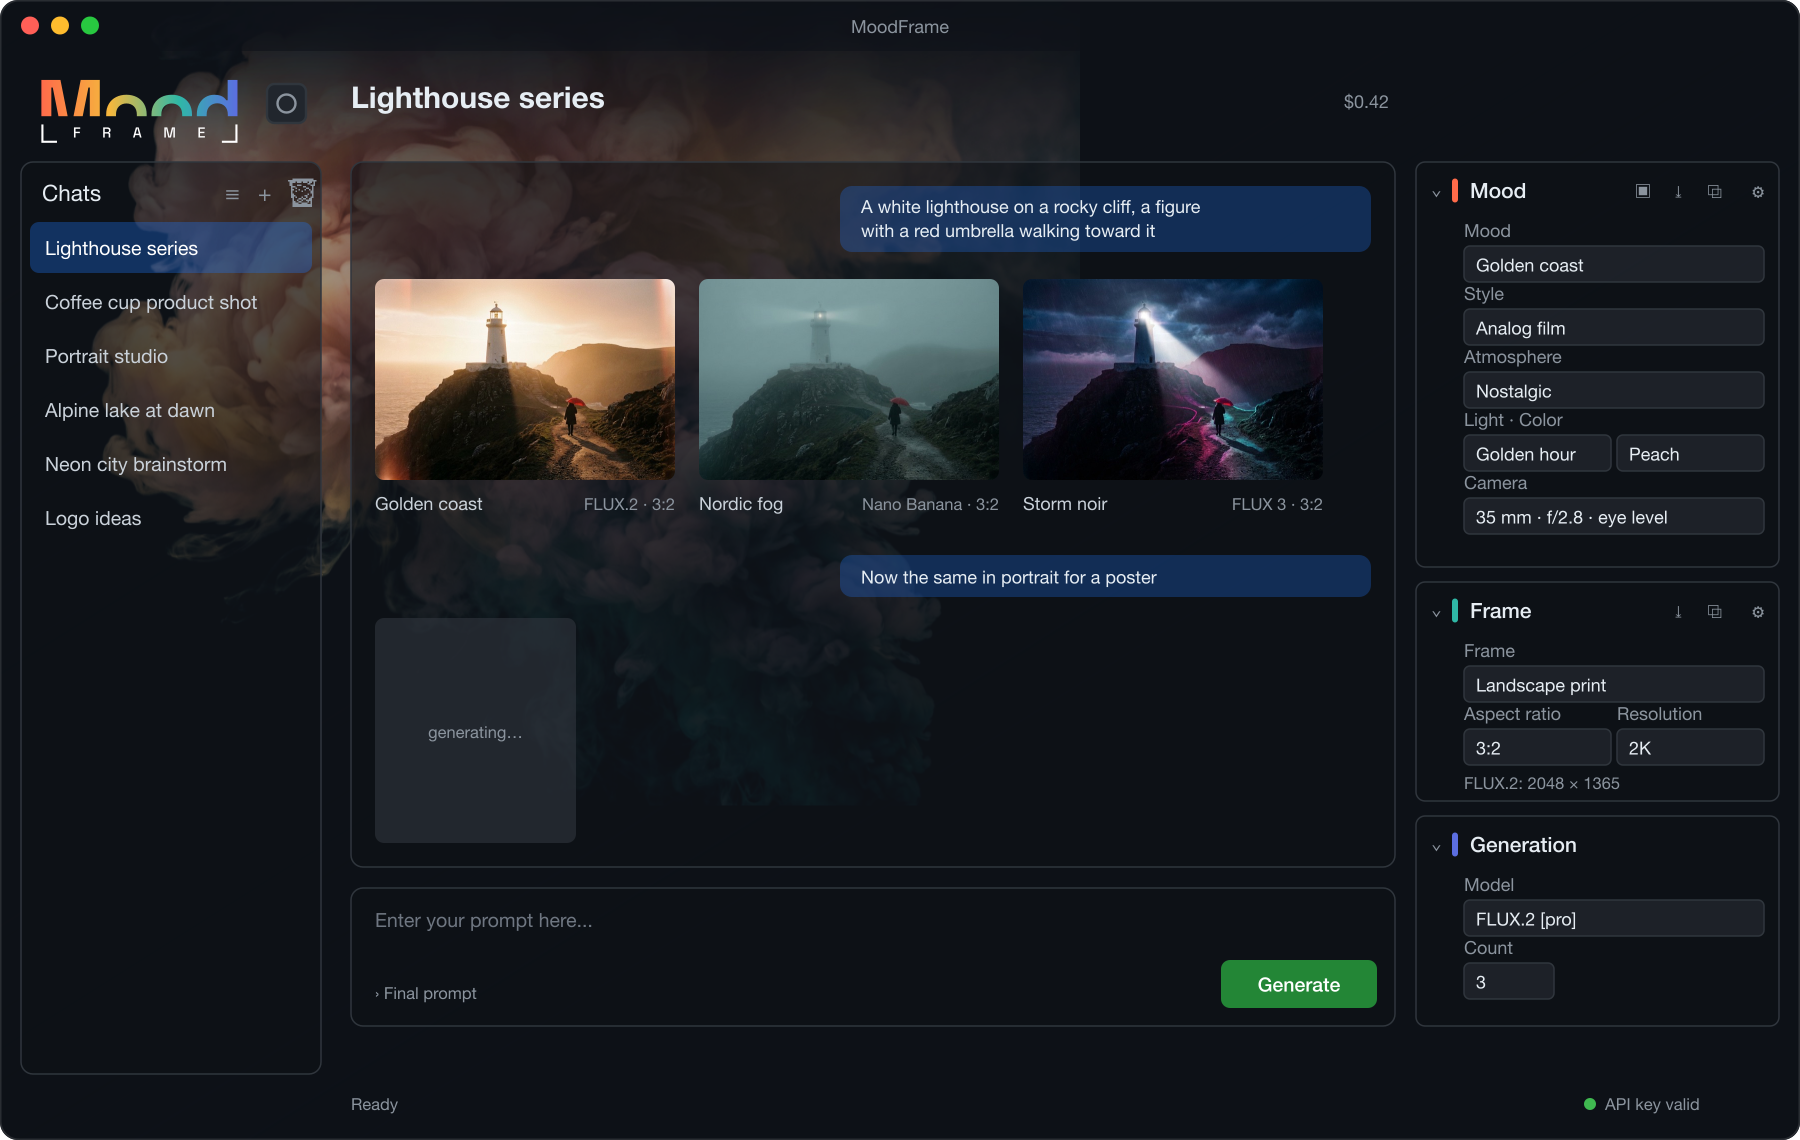
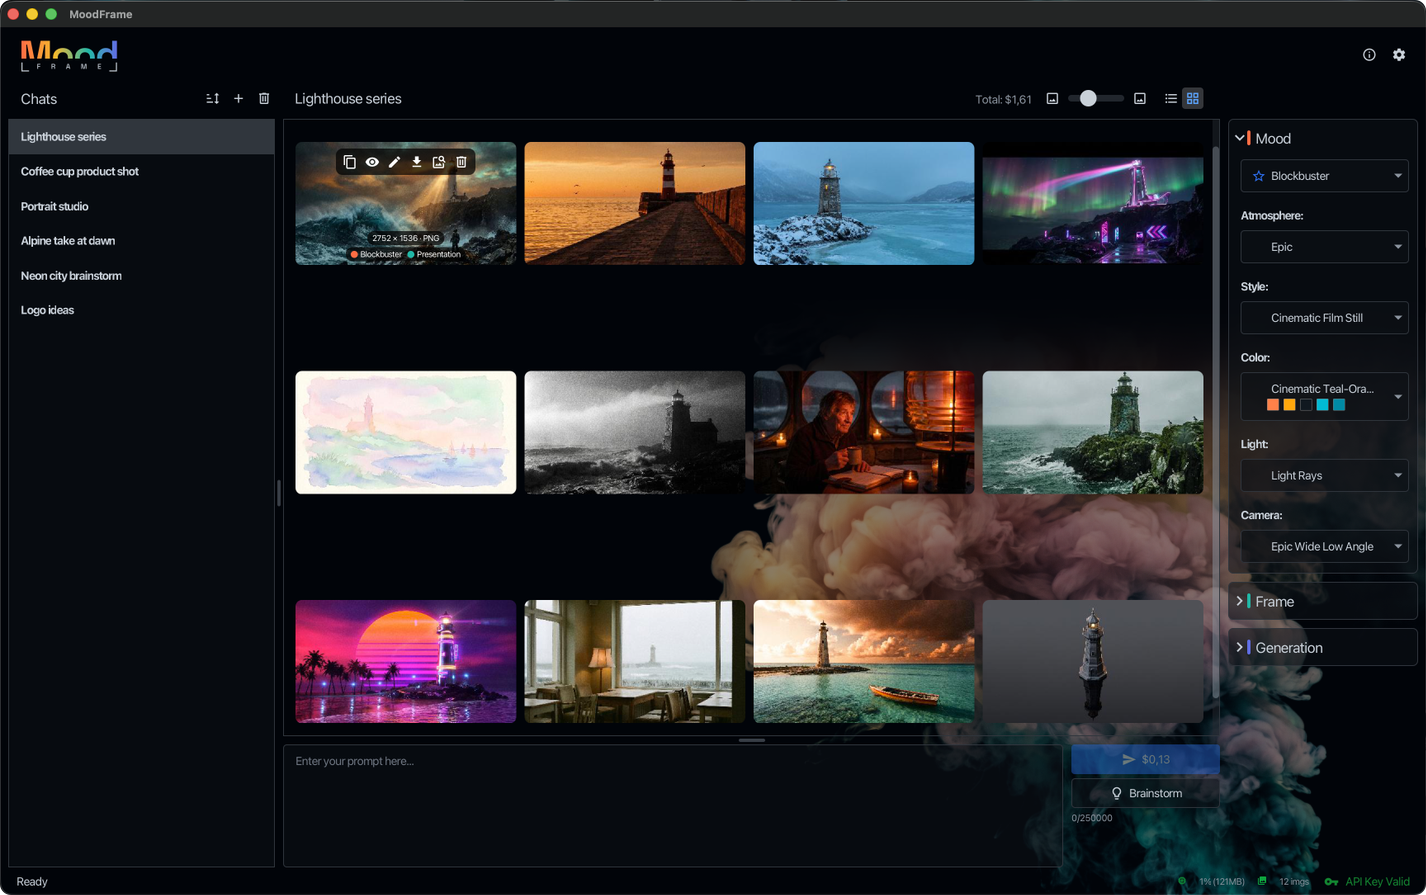
feat(website): Real app screenshot in the overview, callout for Brainstorm

diff --git a/website/index.html b/website/index.html
@@ -12,7 +12,7 @@
     <link rel="icon" type="image/png" href="assets/img/favicon-64.png">
     <link rel="apple-touch-icon" href="assets/img/apple-touch-icon.png">
     <link rel="preload" href="assets/fonts/space-grotesk-700.woff2" as="font" type="font/woff2" crossorigin>
-    <link rel="stylesheet" href="assets/css/site.css?v=20261113e">
+    <link rel="stylesheet" href="assets/css/site.css?v=20261114">
 </head>
 <body>
 
@@ -58,50 +58,56 @@
         <figure class="card overview-figure" style="margin-inline: 0">
             <svg viewBox="0 0 1248 600" role="img" aria-labelledby="overview-desc">
                 <desc id="overview-desc" data-i18n="overview.alt">The MoodFrame main window with the library, the images, the prompt, and the groups Mood, Frame and Generation</desc>
-                <image href="assets/img/app-screenshot.png" x="194" y="30" width="860" height="545"/>
-                <g stroke-width="1">
-                    <line x1="182" y1="132" x2="273" y2="132" stroke="rgb(255 255 255 / 45%)"/>
-                    <line x1="182" y1="211" x2="431" y2="211" stroke="rgb(255 255 255 / 45%)"/>
-                    <line x1="182" y1="454" x2="409" y2="454" stroke="rgb(255 255 255 / 45%)"/>
-                    <line x1="954" y1="182" x2="1066" y2="182" stroke="#ff6b4a"/>
-                    <line x1="954" y1="347" x2="1066" y2="347" stroke="#2fb8a6"/>
-                    <line x1="954" y1="447" x2="1066" y2="447" stroke="#5b6ee1"/>
+                <image href="assets/img/app-screenshot.png?v=20261114" x="194" y="30" width="860" height="540"/>
+                <g stroke-width="1" fill="none">
+                    <line x1="182" y1="112" x2="199" y2="112" stroke="rgb(255 255 255 / 45%)"/>
+                    <line x1="182" y1="184" x2="372" y2="184" stroke="rgb(255 255 255 / 45%)"/>
+                    <line x1="182" y1="506" x2="496" y2="506" stroke="rgb(255 255 255 / 45%)"/>
+                    <line x1="1010" y1="113" x2="1066" y2="113" stroke="#ff6b4a"/>
+                    <polyline points="1010,392 1040,392 1058,372 1066,372" stroke="#2fb8a6"/>
+                    <polyline points="1010,420 1040,420 1058,445 1066,445" stroke="#5b6ee1"/>
+                    <polyline points="926,508 1040,508 1058,530 1066,530" stroke="#f5b83d"/>
                 </g>
                 <g stroke="#0d1a1e" stroke-width="2">
-                    <circle cx="273" cy="132" r="5" fill="#ffffff"/><circle cx="431" cy="211" r="5" fill="#ffffff"/>
-                    <circle cx="409" cy="454" r="5" fill="#ffffff"/><circle cx="954" cy="182" r="5" fill="#ff6b4a"/>
-                    <circle cx="954" cy="347" r="5" fill="#2fb8a6"/><circle cx="954" cy="447" r="5" fill="#5b6ee1"/>
+                    <circle cx="199" cy="112" r="5" fill="#ffffff"/><circle cx="372" cy="184" r="5" fill="#ffffff"/>
+                    <circle cx="496" cy="506" r="5" fill="#ffffff"/><circle cx="1010" cy="113" r="5" fill="#ff6b4a"/>
+                    <circle cx="1010" cy="392" r="5" fill="#2fb8a6"/><circle cx="1010" cy="420" r="5" fill="#5b6ee1"/>
+                    <circle cx="926" cy="508" r="5" fill="#f5b83d"/>
                 </g>
                 <g text-anchor="end">
-                    <text x="174" y="137" class="callout-title" data-i18n="feature.library">Library</text>
-                    <text x="174" y="157" class="callout-text" data-i18n="feature.library.1">Chats, or all images</text>
-                    <text x="174" y="175" class="callout-text" data-i18n="feature.library.2">of a mood or frame</text>
-                    <text x="174" y="216" class="callout-title" data-i18n="feature.images">Images</text>
-                    <text x="174" y="236" class="callout-text" data-i18n="feature.images.1">each with its mood,</text>
-                    <text x="174" y="254" class="callout-text" data-i18n="feature.images.2">model and cost</text>
-                    <text x="174" y="459" class="callout-title" data-i18n="feature.prompt">Prompt</text>
-                    <text x="174" y="479" class="callout-text" data-i18n="feature.prompt.1">write what you see, or</text>
-                    <text x="174" y="497" class="callout-text" data-i18n="feature.prompt.2">brainstorm it with AI</text>
+                    <text x="174" y="117" class="callout-title" data-i18n="feature.library">Library</text>
+                    <text x="174" y="137" class="callout-text" data-i18n="feature.library.1">Chats, or all images</text>
+                    <text x="174" y="155" class="callout-text" data-i18n="feature.library.2">of a mood or frame</text>
+                    <text x="174" y="189" class="callout-title" data-i18n="feature.images">Images</text>
+                    <text x="174" y="209" class="callout-text" data-i18n="feature.images.1">each with its mood,</text>
+                    <text x="174" y="227" class="callout-text" data-i18n="feature.images.2">model and cost</text>
+                    <text x="174" y="511" class="callout-title" data-i18n="feature.prompt">Prompt</text>
+                    <text x="174" y="531" class="callout-text" data-i18n="feature.prompt.1">write what you want</text>
+                    <text x="174" y="549" class="callout-text" data-i18n="feature.prompt.2">to see in the picture</text>
                 </g>
                 <g>
-                    <text x="1074" y="187" class="callout-title" data-i18n="nav.mood">Mood</text>
-                    <text x="1074" y="207" class="callout-text" data-i18n="feature.mood.1">style, atmosphere, light,</text>
-                    <text x="1074" y="225" class="callout-text" data-i18n="feature.mood.2">color and camera</text>
-                    <text x="1074" y="352" class="callout-title" data-i18n="nav.frame">Frame</text>
-                    <text x="1074" y="372" class="callout-text" data-i18n="feature.frame.1">aspect ratio and size</text>
-                    <text x="1074" y="452" class="callout-title" data-i18n="nav.models">Models</text>
-                    <text x="1074" y="472" class="callout-text" data-i18n="feature.models.1">FLUX, Nano Banana,</text>
-                    <text x="1074" y="490" class="callout-text" data-i18n="feature.models.2">OpenAI-compatible</text>
+                    <text x="1074" y="118" class="callout-title" data-i18n="nav.mood">Mood</text>
+                    <text x="1074" y="138" class="callout-text" data-i18n="feature.mood.1">style, atmosphere, light,</text>
+                    <text x="1074" y="156" class="callout-text" data-i18n="feature.mood.2">color and camera</text>
+                    <text x="1074" y="377" class="callout-title" data-i18n="nav.frame">Frame</text>
+                    <text x="1074" y="397" class="callout-text" data-i18n="feature.frame.1">aspect ratio and size</text>
+                    <text x="1074" y="450" class="callout-title" data-i18n="nav.models">Models</text>
+                    <text x="1074" y="470" class="callout-text" data-i18n="feature.models.1">FLUX, Nano Banana,</text>
+                    <text x="1074" y="488" class="callout-text" data-i18n="feature.models.2">OpenAI-compatible</text>
+                    <text x="1074" y="535" class="callout-title" data-i18n="feature.brainstorm">Brainstorm</text>
+                    <text x="1074" y="555" class="callout-text" data-i18n="feature.brainstorm.1">develop ideas and prompts</text>
+                    <text x="1074" y="573" class="callout-text" data-i18n="feature.brainstorm.2">with an AI assistant</text>
                 </g>
             </svg>
-            <img class="shot" src="assets/img/app-screenshot.png" alt="" width="1800" height="1140" loading="lazy">
+            <img class="shot" src="assets/img/app-screenshot.png?v=20261114" alt="" width="1426" height="895" loading="lazy">
             <ul class="overview-list">
                 <li><span><b data-i18n="feature.library">Library</b> · <span data-i18n="feature.library.full">Chats, or all images of a mood or frame</span></span></li>
                 <li><span><b data-i18n="feature.images">Images</b> · <span data-i18n="feature.images.full">each with its mood, model and cost</span></span></li>
-                <li><span><b data-i18n="feature.prompt">Prompt</b> · <span data-i18n="feature.prompt.full">write what you see, or brainstorm it with AI</span></span></li>
+                <li><span><b data-i18n="feature.prompt">Prompt</b> · <span data-i18n="feature.prompt.full">write what you want to see in the picture</span></span></li>
                 <li style="--dot: #ff6b4a"><span><b data-i18n="nav.mood">Mood</b> · <span data-i18n="feature.mood.full">style, atmosphere, light, color and camera</span></span></li>
                 <li style="--dot: #2fb8a6"><span><b data-i18n="nav.frame">Frame</b> · <span data-i18n="feature.frame.1">aspect ratio and size</span></span></li>
                 <li style="--dot: #5b6ee1"><span><b data-i18n="nav.models">Models</b> · <span data-i18n="feature.models.full">FLUX, Nano Banana, OpenAI-compatible</span></span></li>
+                <li style="--dot: #f5b83d"><span><b data-i18n="feature.brainstorm">Brainstorm</b> · <span data-i18n="feature.brainstorm.full">develop ideas and prompts with an AI assistant</span></span></li>
             </ul>
         </figure>
     </section>
@@ -254,6 +260,6 @@
     </div>
 </footer>
 
-<script src="assets/js/site.js?v=20261113e" defer></script>
+<script src="assets/js/site.js?v=20261114" defer></script>
 </body>
 </html>

diff --git a/website/assets/js/site.js b/website/assets/js/site.js
@@ -20,8 +20,10 @@ const TEXT = {
         "feature.library.full": "Chats, or all images of a mood or frame",
         "feature.images": "Images", "feature.images.1": "each with its mood,", "feature.images.2": "model and cost",
         "feature.images.full": "each with its mood, model and cost",
-        "feature.prompt": "Prompt", "feature.prompt.1": "write what you see, or", "feature.prompt.2": "brainstorm it with AI",
-        "feature.prompt.full": "write what you see, or brainstorm it with AI",
+        "feature.prompt": "Prompt", "feature.prompt.1": "write what you want", "feature.prompt.2": "to see in the picture",
+        "feature.prompt.full": "write what you want to see in the picture",
+        "feature.brainstorm": "Brainstorm", "feature.brainstorm.1": "develop ideas and prompts", "feature.brainstorm.2": "with an AI assistant",
+        "feature.brainstorm.full": "develop ideas and prompts with an AI assistant",
         "feature.mood.1": "style, atmosphere, light,", "feature.mood.2": "color and camera",
         "feature.mood.full": "style, atmosphere, light, color and camera",
         "feature.frame.1": "aspect ratio and size",
@@ -82,8 +84,10 @@ const TEXT = {
         "feature.library.full": "Chats, oder alle Bilder einer Mood oder eines Frames",
         "feature.images": "Bilder", "feature.images.1": "jedes mit Mood,", "feature.images.2": "Modell und Kosten",
         "feature.images.full": "jedes mit Mood, Modell und Kosten",
-        "feature.prompt": "Prompt", "feature.prompt.1": "schreiben, was du siehst,", "feature.prompt.2": "oder mit KI entwickeln",
-        "feature.prompt.full": "schreiben, was du siehst, oder mit KI entwickeln",
+        "feature.prompt": "Prompt", "feature.prompt.1": "schreiben, was du", "feature.prompt.2": "im Bild sehen willst",
+        "feature.prompt.full": "schreiben, was du im Bild sehen willst",
+        "feature.brainstorm": "Brainstorm", "feature.brainstorm.1": "Ideen und Prompts mit", "feature.brainstorm.2": "einem KI-Assistenten entwickeln",
+        "feature.brainstorm.full": "Ideen und Prompts mit einem KI-Assistenten entwickeln",
         "feature.mood.1": "Stil, Atmosphäre, Licht,", "feature.mood.2": "Farbe und Kamera",
         "feature.mood.full": "Stil, Atmosphäre, Licht, Farbe und Kamera",
         "feature.frame.1": "Seitenverhältnis und Größe",
@@ -194,7 +198,7 @@ function applyMood () {
     const mood = MOODS[state.mood]
     for (const tab of document.querySelectorAll("[data-mood]"))
         tab.setAttribute("aria-selected", String(tab.dataset.mood === state.mood))
-    document.querySelector("[data-mood-image]").src = `assets/img/${mood.image}?v=20261113e`
+    document.querySelector("[data-mood-image]").src = `assets/img/${mood.image}?v=20261114`
     for (const field of document.querySelectorAll("[data-mood-field]"))
         field.textContent = t(`mood.${state.mood}.${field.dataset.moodField}`)
     const swatches = document.querySelector("[data-mood-swatches]")

diff --git a/website/imprint.html b/website/imprint.html
@@ -7,7 +7,7 @@
     <meta name="robots" content="noindex">
     <meta name="theme-color" content="#0d1a1e">
     <link rel="icon" type="image/png" href="assets/img/favicon-64.png">
-    <link rel="stylesheet" href="assets/css/site.css?v=20261113e">
+    <link rel="stylesheet" href="assets/css/site.css?v=20261114">
 </head>
 <body>
 
@@ -108,6 +108,6 @@
     </div>
 </footer>
 
-<script src="assets/js/site.js?v=20261113e" defer></script>
+<script src="assets/js/site.js?v=20261114" defer></script>
 </body>
 </html>

diff --git a/website/privacy.html b/website/privacy.html
@@ -7,7 +7,7 @@
     <meta name="robots" content="noindex">
     <meta name="theme-color" content="#0d1a1e">
     <link rel="icon" type="image/png" href="assets/img/favicon-64.png">
-    <link rel="stylesheet" href="assets/css/site.css?v=20261113e">
+    <link rel="stylesheet" href="assets/css/site.css?v=20261114">
 </head>
 <body>
 
@@ -167,6 +167,6 @@
     </div>
 </footer>
 
-<script src="assets/js/site.js?v=20261113e" defer></script>
+<script src="assets/js/site.js?v=20261114" defer></script>
 </body>
 </html>
